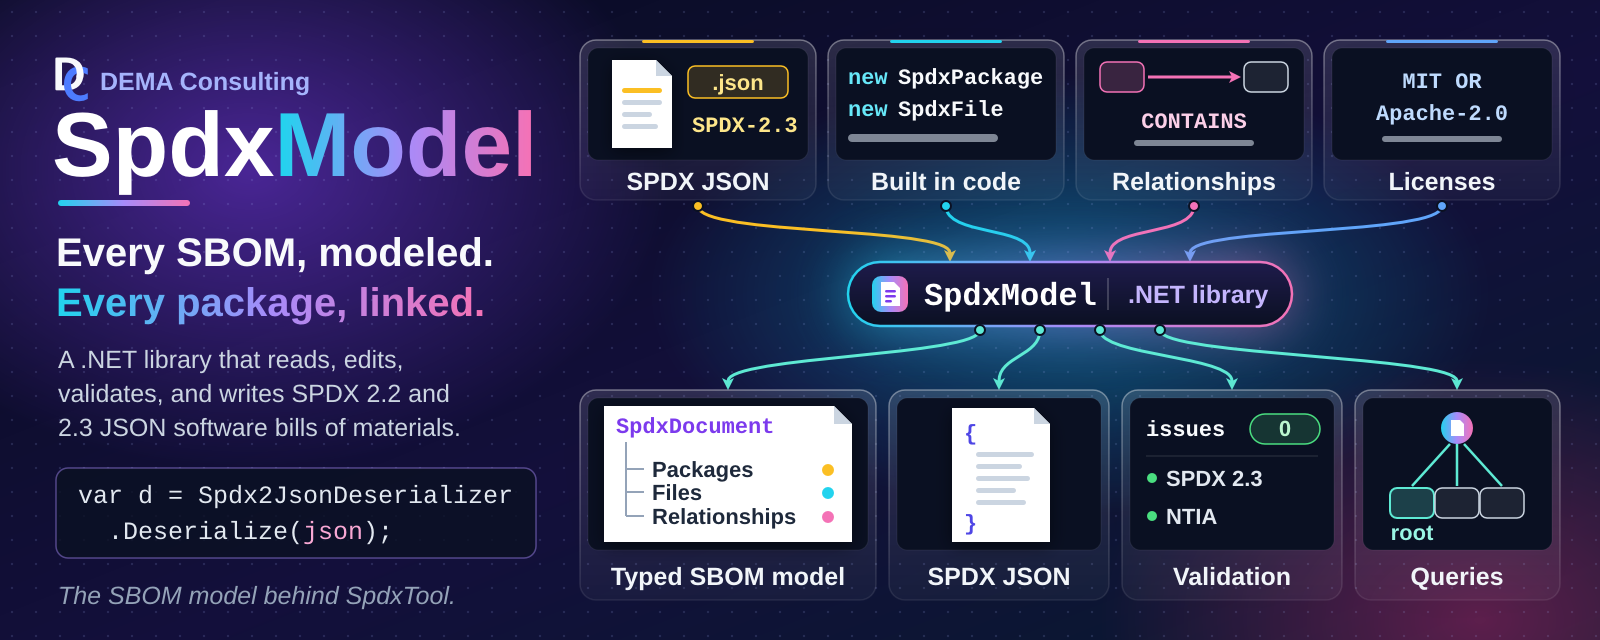
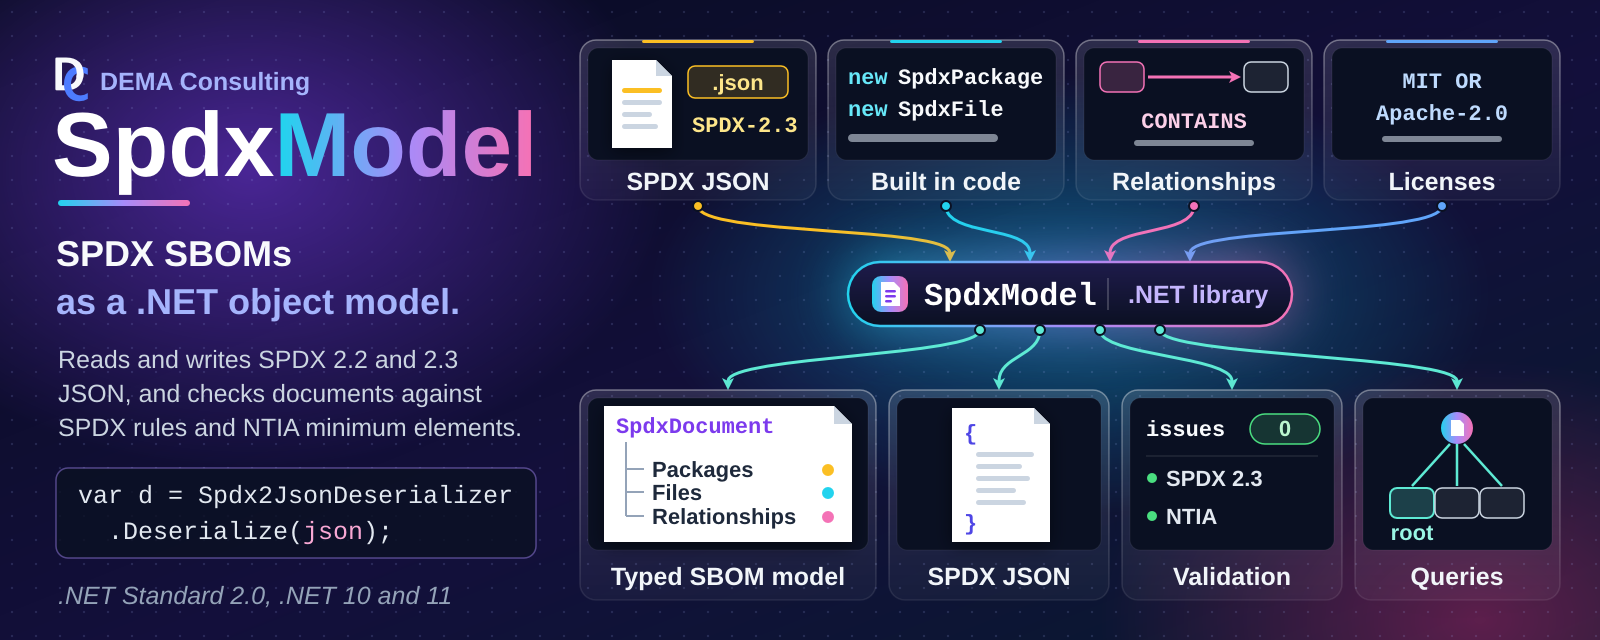
Sync agents/template and calm the README hero (#204)
* Sync agents, skills, and standards from the shared Agents repo

* Sync template: yamlfix block-text comments and script CUSTOMIZATION headers

* Calm the README hero and make it the H1

---------

Changed region(s): [[0.0312, 0.5312, 0.3438, 0.6875], [0.0312, 0.375, 0.3125, 0.5], [0.0312, 0.9062, 0.2812, 0.9688]]

diff --git a/.github/standards/sysml2-modeling.md b/.github/standards/sysml2-modeling.md
@@ -31,15 +31,15 @@ docs/sysml2/
 ├── common/
 │   └── software-items.sysml           # shared SoftwareItemMetadata::SoftwareInfo metadata def
 ├── model/
-│   ├── {system-name}.sysml            # system-level part def only (no subsystems/units inline)
+│   ├── {system-name}.sysml            # package {SystemName}; system-level part def only (no subsystems/units inline)
 │   ├── {system-name}/
-│   │   ├── {subsystem-name}.sysml     # subsystem part def; nests further for sub-subsystems
+│   │   ├── {subsystem-name}.sysml     # package {SystemName}_{SubsystemName}Subsystem; nests further for sub-subsystems
 │   │   └── {subsystem-name}/
-│   │       └── {unit-name}.sysml      # one file per unit
-│   ├── ots.sysml                      # OTS dependency parts (optional; if OTS items exist)
-│   └── shared.sysml                   # Shared Package parts (optional; if Shared Packages exist)
+│   │       └── {unit-name}.sysml      # package {SystemName}_{UnitName}; one file per unit
+│   ├── ots.sysml                      # package OtsDependencies: OTS parts (optional; if OTS items exist)
+│   └── shared.sysml                   # package SharedPackages: Shared Package parts (optional; if Shared Packages exist)
 └── views/
-    └── design-views.sysml             # named view usages rendered for the design document
+    └── design-views.sysml             # package {RepoName}DesignViews; named view usages rendered for the design document
 ```
 
 `docs/sysml2/common/software-items.sysml` defines the `SoftwareItemMetadata::SoftwareInfo`
@@ -62,14 +62,42 @@ so no single alias name would generalize. Agents discover the system(s) present 
 `docs/sysml2/**/*.sysml`, not by assuming a fixed name.
 
 Always pass the full set of `.sysml` files (or an equivalent glob) to every `sysml2tools`
-invocation — the model spans multiple files and cross-references between them; files sharing
-the same `package Name { ... }` merge into one namespace automatically with no `import`
-required, as long as all files are passed together. As of `sysml2tools` 0.1.0-beta.5,
+invocation — the model spans multiple files and cross-references between them, and a
+reference only resolves when the file declaring its target is loaded (see Package Structure
+below for how files reference each other). As of `sysml2tools` 0.1.0-beta.5,
 `lint` and `render` both expand `*`/`**` glob patterns internally (recursing correctly into
 subdirectories), so pass a single **quoted** glob string (e.g. `'docs/sysml2/**/*.sysml'`)
 and let the tool resolve it — do not rely on the shell to expand it, and do not quote-strip
 the pattern before it reaches the tool. Quoting keeps the behavior identical across
 PowerShell and bash, since neither shell needs to (or reliably does) expand `**` itself.
+
+## Package Structure
+
+SysML v2 has no package merging: each file is its own root namespace, and two root packages
+with the same name are duplicate members of the global namespace (the OMG Pilot
+Implementation reports "Duplicate of other owned member name" for each, and references across
+the halves do not resolve). A model that only loads because a tool is lenient is not portable,
+so:
+
+- Each `.sysml` file declares **exactly one uniquely named package**, and a package is never
+  declared (or "reopened") in more than one file.
+- Name each package from its place in the hierarchy, joined with an underscore:
+  `{SystemName}` for the system file, `{SystemName}_{SubsystemName}Subsystem` for a subsystem
+  (including a nested sub-subsystem, which is not prefixed with its parent subsystem), and
+  `{SystemName}_{UnitName}` for a unit. The system prefix keeps names unique across systems.
+  The shared files use `OtsDependencies` and `SharedPackages`, and the single views file uses
+  one repository-level package, `{RepoName}DesignViews` (not one per system).
+- Package names must be unique **repository-wide**. The short forms above are the default;
+  when one would collide (two `Storage` subsystems in different branches, or two units named
+  `Cache` in different subsystems), qualify it with the owning subsystem path, for example
+  `{SystemName}_{SubsystemName}_{UnitName}` (`Acme_Ingest_Cache` and `Acme_Query_Cache`).
+- Reference other files with an explicit `private import {PackageName}::*;` (a system or
+  subsystem file imports the package of each direct member so its `part` usages resolve; every
+  file that applies `SoftwareInfo` imports `SoftwareItemMetadata::*`).
+- Where an import would form a cycle (for example a unit that depends on a package that
+  already imports it), or for a one-off reference into another system, use the qualified name
+  instead, e.g. `dependency {UnitName} to {SystemName}_{OtherUnit}::{OtherUnit};`.
+  Import cycles raise a lint warning; qualified references do not.
 
 ## Model Content
 
@@ -174,11 +202,13 @@ Views control what gets rendered into diagrams for the design document. Use name
 **usages** (not `view def` **definitions**) — `expose` is only valid inside a usage:
 
 ```sysml
-package {SystemName} {
+package {RepoName}DesignViews {
     private import StandardViewDefinitions::*;
+    private import {SystemName}::*;
+    private import {SystemName}_{SubsystemName}Subsystem::*;
 
     view SoftwareStructureView : InterconnectionView {
-        expose {SystemName}::**;     // all members, recursively: system + subsystems + units
+        expose {SystemName}::{SystemName}System::**;  // system part def, recursively: subsystems + units
     }
 
     view {SystemName}View {
@@ -186,10 +216,12 @@ package {SystemName} {
     }
 
     view {SubsystemName}View {
-        expose {SubsystemName};      // one subsystem def only
+        expose {SubsystemName}Subsystem;      // one subsystem def only
     }
 }
 ```
+
+Views import (or qualify) every package whose members they expose, like any other file.
 
 Type `SoftwareStructureView` by a standard view definition from the SysML v2 Views library
 (`GeneralView`, `InterconnectionView`, ...; requires `sysml2tools` 0.3.0-beta.3+). The view
@@ -223,25 +255,27 @@ There is no dedicated `DependencyView`/`{SubsystemName}DependencyView` diagram c
 above), not rendered.
 
 When a repository has multiple systems, type `SoftwareStructureView` by `GeneralView`,
-expose each system package's members, and filter out documentation so the overview stays
-readable — the general view draws one package frame per system, while an interconnection
-view places all systems in a single row:
+expose each system's part def (and each subsystem's, by qualified name), and filter out
+documentation so the overview stays readable — the general view draws one package frame per
+system, while an interconnection view places all systems in a single row:
 
 ```sysml
 package {RepoName}DesignViews {
     private import StandardViewDefinitions::*;
 
     view SoftwareStructureView : GeneralView {
-        expose {SystemNameA}::**;
-        expose {SystemNameB}::**;
-        filter not @SysML::Documentation;
+        expose {SystemNameA}::{SystemNameA}System;
+        expose {SystemNameA}_{SubsystemName}Subsystem::{SubsystemName}Subsystem;
+        expose {SystemNameB}::{SystemNameB}System;
+        filter not (@SysML::Documentation);
     }
 }
 ```
 
 Documentation (`doc`) is exposed with its owner and drawn as a `doc` compartment unless a
-view filters it out; use `filter not @SysML::Documentation;` wherever doc text would clutter
-a diagram.
+view filters it out; use `filter not (@SysML::Documentation);` wherever doc text would clutter
+a diagram. The parentheses are required: the SysML v2 grammar does not accept the unparenthesized
+`filter not @SysML::Documentation;`.
 
 ## Diagram Embedding
 
@@ -313,6 +347,9 @@ sync.
   `sourceFiles`; the purpose statement appears only in the `doc` comment, never in `SoftwareInfo`
 - [ ] `docs/sysml2/views/design-views.sysml` uses `view Name { expose ...; }` usages, not
   `view def` definitions
+- [ ] Each `.sysml` file declares exactly one uniquely named package (never the same package
+  in two files), named per Package Structure, and references other files through
+  `private import` or qualified names (qualified where an import would form a cycle)
 - [ ] View names follow the `SoftwareStructureView` / `{SystemName}View` /
   `{SubsystemName}View` convention (no dedicated `DependencyView`)
 - [ ] Each Unit's real collaborators are captured as `dependency A to B;` statements, and each

diff --git a/.github/skills/sysml2tools-query/SKILL.md b/.github/skills/sysml2tools-query/SKILL.md
@@ -21,11 +21,15 @@ dotnet tool restore
 ## Model files
 
 - `docs/sysml2/model/{system-name}.sysml` — system-level `part def` only (no subsystems/units
-  inline). A repository may contain more than one system.
+  inline), in package `{SystemName}`. A repository may contain more than one system.
 - `docs/sysml2/model/{system-name}/{subsystem-name}.sysml` and
   `docs/sysml2/model/{system-name}/{subsystem-name}/{unit-name}.sysml` — one file per
   Subsystem/Unit, nested to mirror the same folder depth as that item's companion
-  `docs/design/`, `docs/reqstream/`, and `docs/verification/` files.
+  `docs/design/`, `docs/reqstream/`, and `docs/verification/` files. Each declares its own
+  uniquely named package; by default `{SystemName}_{SubsystemName}Subsystem` or
+  `{SystemName}_{UnitName}`, qualified with the subsystem path
+  (`{SystemName}_{SubsystemName}_{UnitName}`) when the short name would collide. An element's
+  qualified name is e.g. `{SystemName}_{UnitName}::{UnitName}`.
 - `docs/sysml2/model/ots.sysml` — off-the-shelf (OTS) dependency parts (present when OTS items
   exist).
 - `docs/sysml2/model/shared.sysml` — Shared Package parts (present when Shared Package items
@@ -35,9 +39,10 @@ dotnet tool restore
   useful to see how diagrams are scoped.
 
 Always pass all `.sysml` files (or a glob covering them) to every `sysml2tools`
-invocation — the model spans multiple files and cross-references between them; files that
-reopen the same `package Name { ... }` from different files merge into one namespace
-automatically, no `import` required. As of `sysml2tools` 0.1.0-beta.5, every subcommand
+invocation — the model spans multiple files and cross-references between them (each file
+declares one uniquely named package and references others through `import` or qualified
+names; same-named packages in different files are not merged), so every file a reference
+points at must be loaded. As of `sysml2tools` 0.1.0-beta.5, every subcommand
 (`lint`, `render`, `query`) expands `*`/`**` glob patterns internally and recurses
 correctly — pass a single **quoted** glob string and let the tool resolve it, rather than
 relying on the shell (quoting works identically in both PowerShell and bash):
@@ -57,7 +62,7 @@ summary line, so one query gets you every artifact location for that item withou
 the source tree:
 
 ```pwsh
-dotnet sysml2tools query describe -e {SystemName}::{UnitName} 'docs/sysml2/**/*.sysml'
+dotnet sysml2tools query describe -e {SystemName}_{UnitName}::{UnitName} 'docs/sysml2/**/*.sysml'
 ```
 
 ```text

diff --git a/AGENTS.md b/AGENTS.md
@@ -161,10 +161,30 @@ requires it and the modification preserves the documented design intent:
 
 - `.reviewmark.yaml`, `.textlint.yaml`, `.editorconfig`
 - `.lintmark.yaml`, `.yamllint.yaml`
-- `requirements.yaml`, `fix.ps1`, `lint.ps1`
+- `requirements.yaml`
+
+# Project Scripts
+
+`build.ps1`, `lint.ps1`, and `fix.ps1` belong to the project: extend them as it grows. Add project-specific
+steps, update tool versions, and add optional parameters that focus a run (for example one library in a
+multi-library repository, or headless tests without GUI automation). Two rules keep them trustworthy:
+
+- Run with no arguments, each script still does its full job (CI and the agents rely on that); slow or
+  environment-dependent test tiers may be opt-in switches of `build.ps1`.
+- Never remove or weaken a check to make lint or tests pass.
 
 # Continuous Compliance Overview
 
 This repository follows the [Continuous Compliance](https://github.com/demaconsulting/ContinuousCompliance)
 approach. Tools: **ReqStream** (requirements traceability), **ReviewMark** (file review enforcement),
 **BuildMark** (tool versions), **VersionMark** (version tracking).
+
+# Repository-Specific Standards Exceptions
+
+## SysML2 package structure (legacy layout, migration pending)
+
+The model under `docs/sysml2/` predates the one-package-per-file rule: package `SpdxModel` is reopened across 23 files
+(the system file, every subsystem and unit file under `model/spdx-model/`, and `views/design-views.sysml`), and the
+views use `SpdxModel` rather than `SpdxModelDesignViews`. The `sysml2-modeling.md` Package Structure rules and the
+`sysml2tools-query` qualified-name examples apply once the model is migrated in a dedicated PR; until then agents use
+the existing package names and must not partially restructure the model.

diff --git a/README.md b/README.md
@@ -1,4 +1,4 @@
-# SPDX Model
+# ![SpdxModel: SPDX SBOMs as a .NET object model][hero]
 
 ![GitHub forks](https://img.shields.io/github/forks/demaconsulting/SpdxModel?style=plastic)
 ![GitHub Repo stars](https://img.shields.io/github/stars/demaconsulting/SpdxModel?style=plastic)
@@ -8,8 +8,6 @@
 [![Quality Gate Status](https://sonarcloud.io/api/project_badges/measure?project=demaconsulting_SpdxModel&metric=alert_status)](https://sonarcloud.io/summary/new_code?id=demaconsulting_SpdxModel)
 [![Security Rating](https://sonarcloud.io/api/project_badges/measure?project=demaconsulting_SpdxModel&metric=security_rating)](https://sonarcloud.io/summary/new_code?id=demaconsulting_SpdxModel)
 [![NuGet](https://img.shields.io/nuget/v/DemaConsulting.SpdxModel.svg)](https://www.nuget.org/packages/DemaConsulting.SpdxModel/)
-
-![SpdxModel banner: the SpdxModel name with the tagline 'Every SBOM, modeled. Every package, linked.' and the C# call 'var d = Spdx2JsonDeserializer.Deserialize(json);'. SPDX JSON documents, packages and files built in code, relationships such as CONTAINS, and license expressions such as 'MIT OR Apache-2.0' flow on curved arrows into the SpdxModel .NET library, and arrows lead out to what it produces: a typed in-memory SpdxDocument model with packages, files, and relationships, SPDX JSON written back, validation issues against SPDX 2.3 and NTIA, and relationship queries such as the root packages. A footnote names SpdxTool as the downstream tool built on this model][hero]
 
 A modern C# library for working with SPDX (Software Package Data Exchange) documents. This library provides a
 comprehensive in-memory model for reading, manipulating, and writing SPDX Software Bill of Materials (SBOM) files.

diff --git a/.github/skills/docdown/SKILL.md b/.github/skills/docdown/SKILL.md
@@ -21,7 +21,9 @@ dotnet docdown --help
 
 ## Scratch Folder
 
-The default `--overwrite clean` deletes everything in the scratch folder, so always pass a new
+The default `--overwrite clean` only replaces an earlier DocDown extraction: it deletes the files that
+folder's DocDown manifest lists and refuses to run if the folder holds anything else
+(`--overwrite overwrite` deletes everything and is never needed here). Still, always pass a new
 subfolder dedicated to the one document - never an existing folder:
 
 - **Preferred**: the agent session folder, when the host provides one, for example
@@ -39,8 +41,9 @@ Never extract into the repository.
    dotnet docdown --input path/to/data-sheet.pdf --scratch {scratch}/data-sheet
    ```
 
-   The last line of output is the path to `summary.txt`. Exit code `1` means the document was
-   unreadable or an argument was bad.
+   The last line of output is the path to `summary.txt`. Exit code `1` means the run failed for an
+   expected reason - an unreadable document, a bad argument, or an option such as `--log` whose file
+   could not be opened; the message says which.
 
 2. Read `summary.txt` first: what was extracted, what is where, and notes on anything that could
    not be read.

diff --git a/.github/agents/orchestrator.agent.md b/.github/agents/orchestrator.agent.md
@@ -48,3 +48,16 @@ briefly, what you loaded.
   let the user answer in their own words. Do not batch decisions into structured question forms (such as an
   `ask_user` tool); they strip away the context the user needs to decide and turn the session into a
   questionnaire.
+
+# Pull Requests (MANDATORY)
+
+Aim for pull requests that each merge one complete, useful change that could be cherry-picked on its own.
+
+- Before starting work that could span more than one pull request, propose the grouping and let the user
+  decide. The user may split it, or combine several small requests into one pull request.
+- When splitting, split by behavior, not by layer or file type: each part carries its own code, tests,
+  requirements, and docs, builds and passes alone, and leaves no stubs or dead code for a later part.
+- Deliver parts in order: start the next part from main only after the previous one merges.
+- Review fixes, lint fixes, and follow-ups go into the open pull request they belong to, not a new one.
+- Sub-agents work on the agreed branch and do not open pull requests; you decide when it is complete.
+- Keep mechanical churn (formatting, renames, generated files) in its own commit so reviewers can skip it.

diff --git a/.github/agents/planning.agent.md b/.github/agents/planning.agent.md
@@ -52,10 +52,13 @@ Repeat up to 2 more times, stopping when the plan is stable.
 
 List up to 5 risks with a brief mitigation for each.
 
-## Step 6 — Feasibility Assessment
+## Step 6 — Feasibility and Delivery
 
 State whether this can be implemented in a single development pass and any
-preconditions that affect feasibility.
+preconditions that affect feasibility. Propose how the work groups into pull
+requests: one complete, useful change per pull request where possible; if it
+should be split, list ordered parts that are split by behavior (not by layer or
+file type) and each build, pass, and deliver something on their own.
 
 ## Step 7 — Recommendation
 
@@ -108,9 +111,12 @@ Then respond to the caller with ONLY the lean structured summary below.
 
 1. **[severity]** {risk} — {mitigation}
 
-## Feasibility Assessment
+## Feasibility and Delivery
 
 {Single-pass or not, and why. Any preconditions.}
+
+{Proposed pull-request grouping: one pull request, or ordered parts split by behavior,
+each with what it delivers on its own.}
 
 ## Unknowns
 
